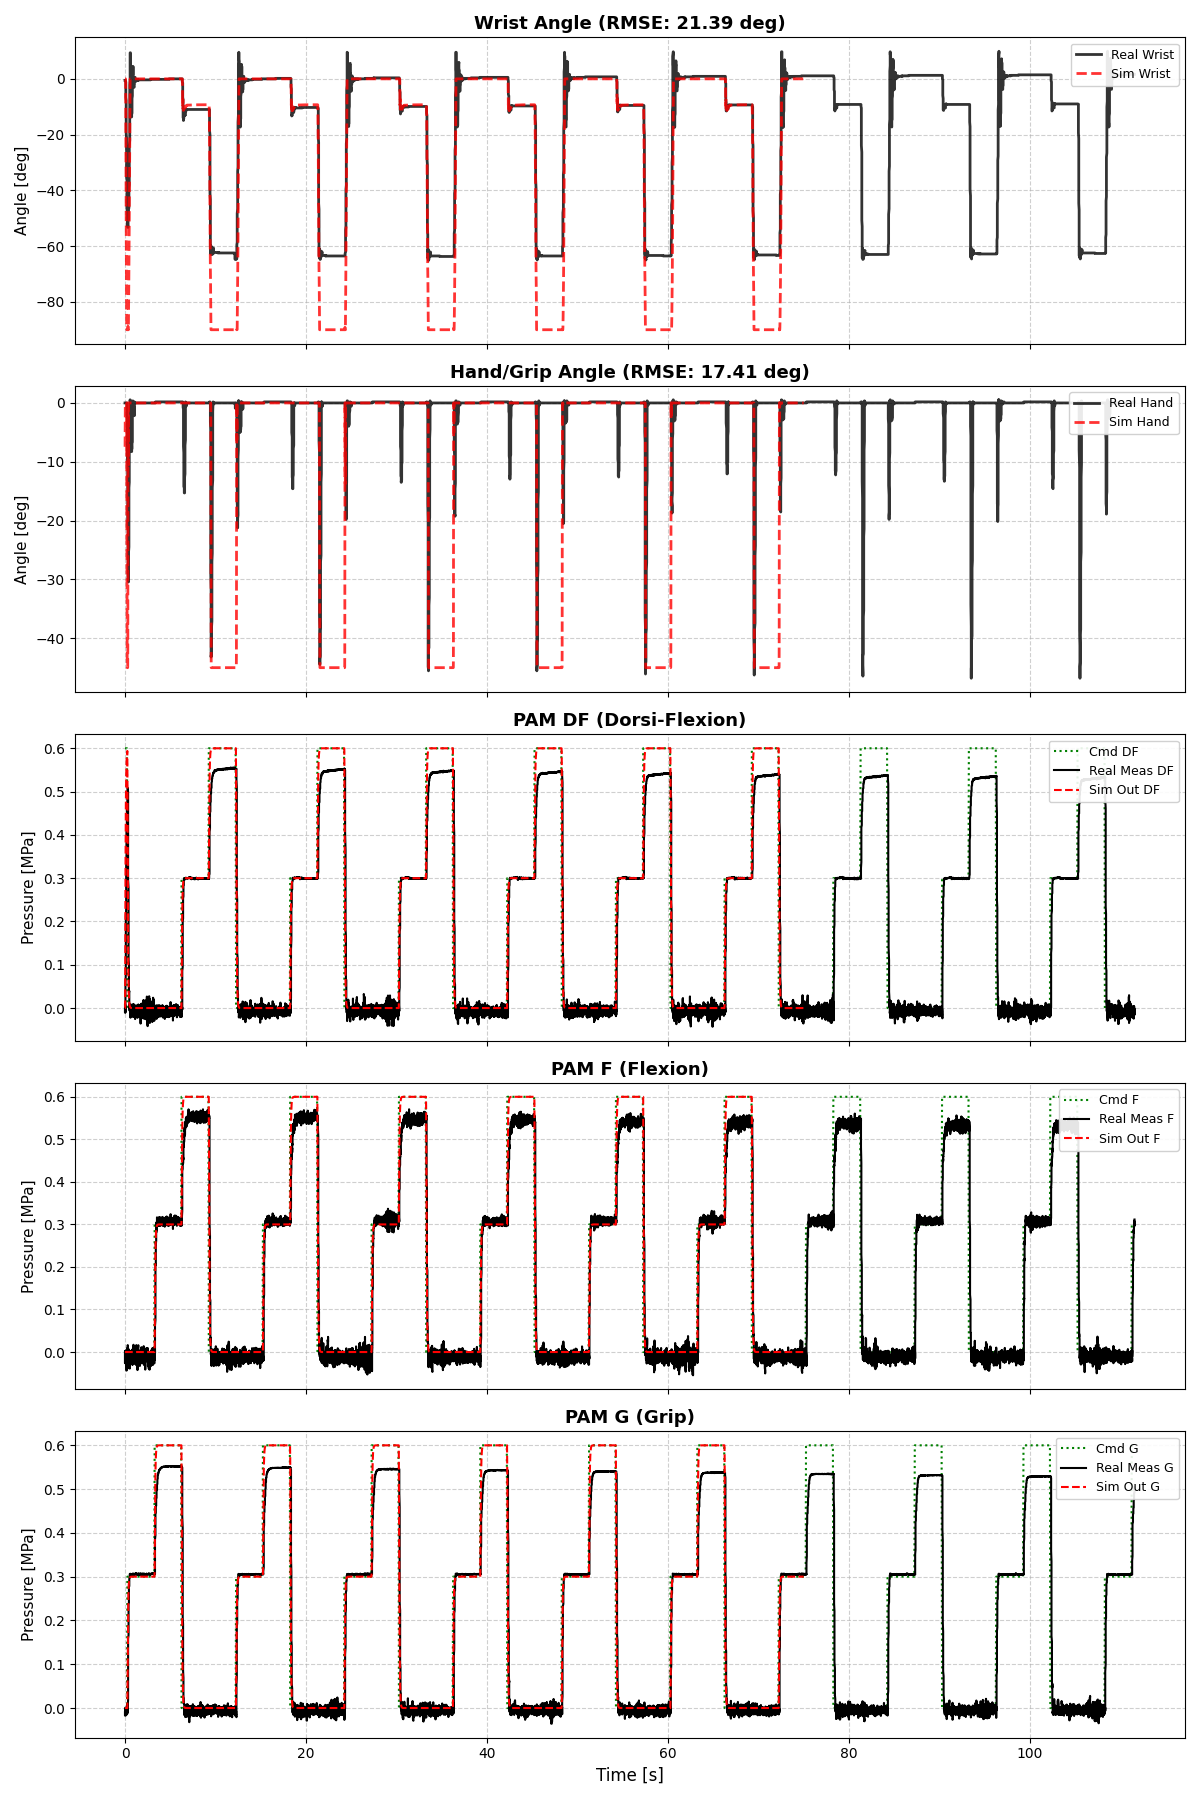
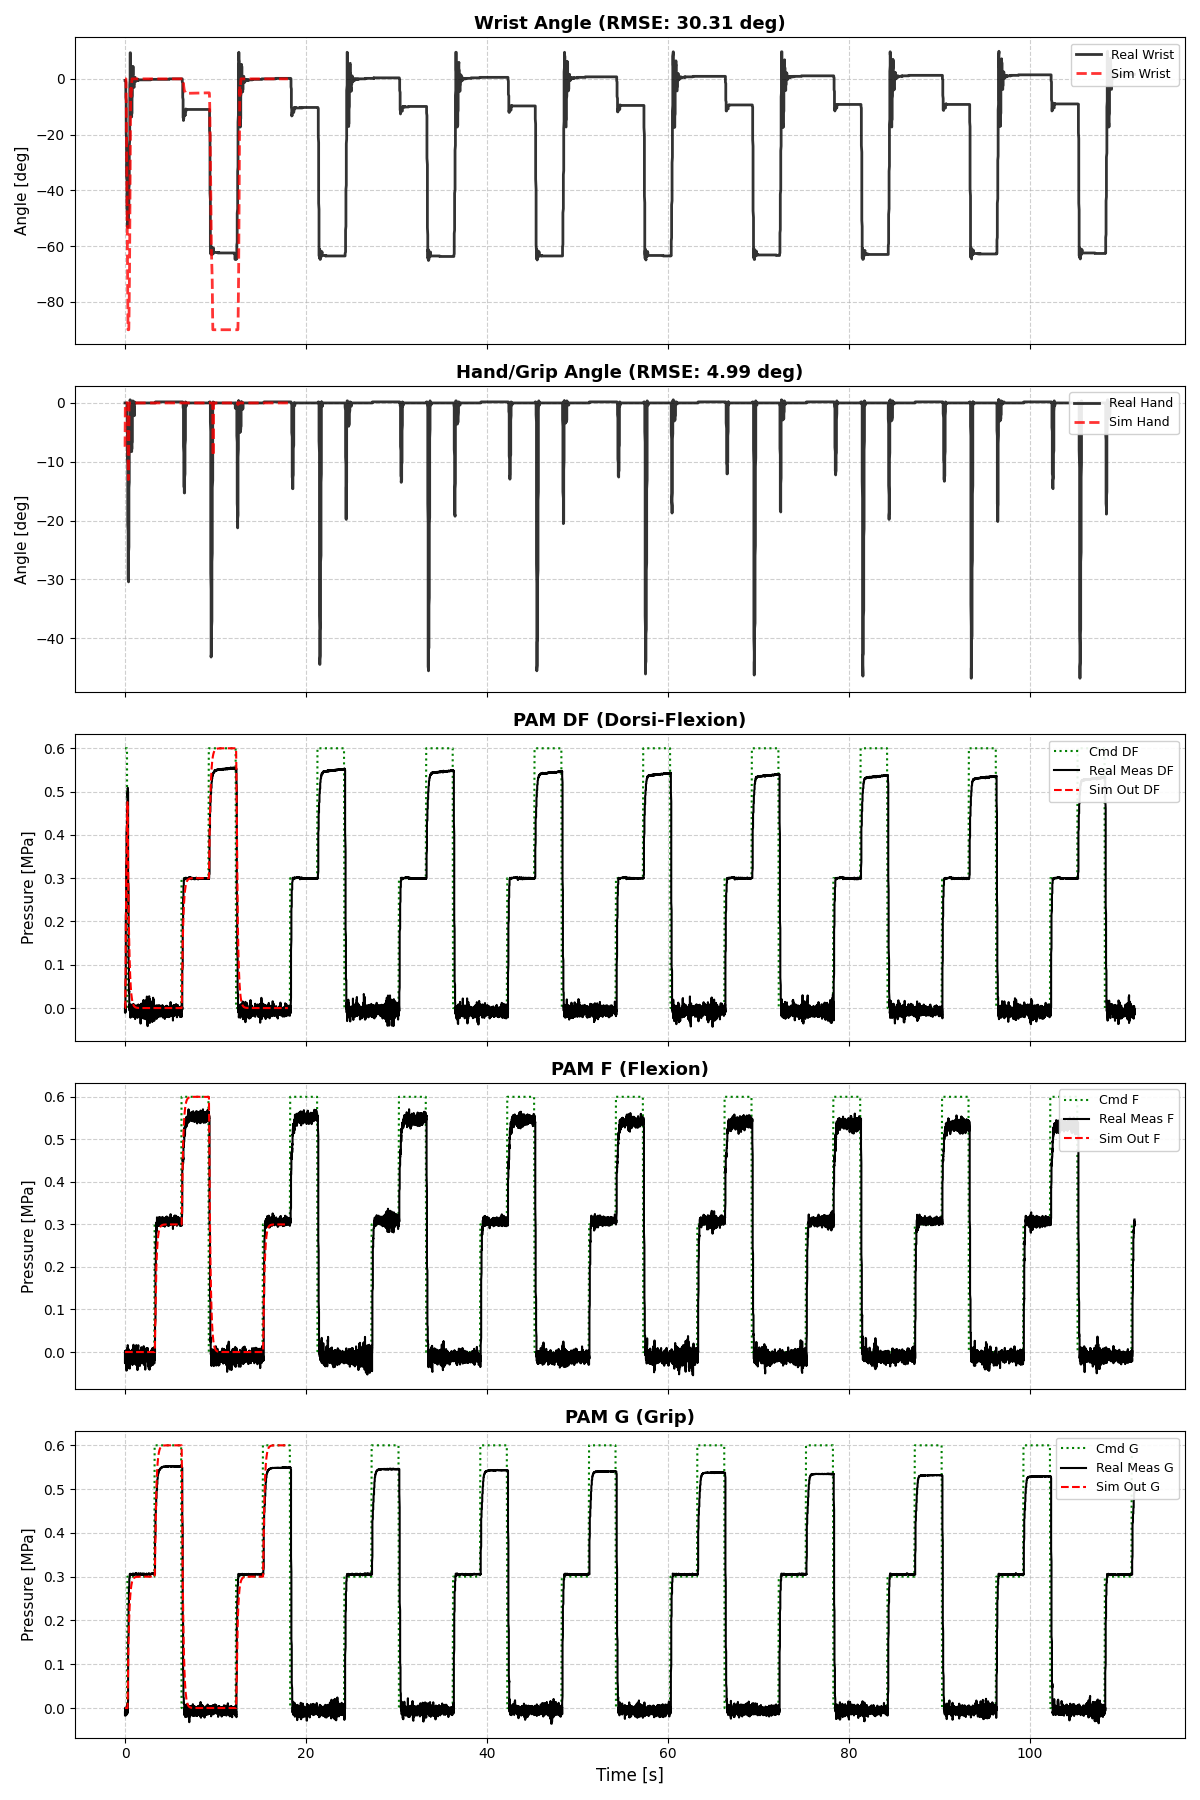
add

diff --git a/source/porcaro_rl/porcaro_rl/tasks/direct/porcaro_rlv1/cfg/assets.py b/source/porcaro_rl/porcaro_rl/tasks/direct/porcaro_rlv1/cfg/assets.py
@@ -32,39 +32,71 @@ def quat_from_euler_zyx(yaw_deg=0.0, pitch_deg=0.0, roll_deg=0.0):
     norm = math.sqrt(w*w + qx*qx + qy*qy + qz*qz)
     return (w/norm, qx/norm, qy/norm, qz/norm)
 
-# --- アセットのパス設定 ---
-# このスクリプトが (リポジトリルート)/source/standalone/environments/porcaro/
-# に置かれることを想定しています。
+# =========================================================================
+# ★ 変更箇所: データパス探索ロジックの強化
+# =========================================================================
+def find_project_root_and_data(start_path: Path, max_depth: int = 6) -> tuple[Path, Path]:
+    """
+    カレントまたはファイルの場所から親ディレクトリを遡り、'data' フォルダを探す。
+    見つからない場合はエラーとする。
+    """
+    current = start_path.resolve()
+    for _ in range(max_depth):
+        # 候補: dataフォルダがあるかチェック
+        candidate_data = current / "data"
+        if candidate_data.exists() and candidate_data.is_dir():
+             # さらにその中にpam_force_map.csvがあるか確認（確実性のため）
+             if (candidate_data / "pam_force_map.csv").exists():
+                 return current, candidate_data
+        
+        # 親へ
+        if current.parent == current: # ルート到達
+            break
+        current = current.parent
+    
+    raise FileNotFoundError(
+        f"Could not find 'data' directory containing 'pam_force_map.csv' by traversing up from {start_path}. "
+        "Please ensure the 'data' folder exists in the project root."
+    )
+
+# パス解決の実行
 try:
-    ASSETS_DIR = (Path(__file__).resolve().parents[3] / "assets")
-    DATA_DIR = (Path(__file__).resolve().parents[3] / "data")
-except (IndexError, NameError):
-    # 対話環境などで __file__ が未定義の場合のフォールバック
-    print("[Warning] __file__ が未定義です。ASSETS_DIR をカレントディレクトリ基準で仮設定します。")
-    ASSETS_DIR = Path.cwd().parents[2] / "assets"
-    DATA_DIR = Path.cwd().parents[2] / "data"
+    # このファイルの場所を基準に探索
+    BASE_DIR = Path(__file__).parent
+    PROJECT_ROOT, DATA_DIR = find_project_root_and_data(BASE_DIR)
+    
+    # Assetsは data と同階層にあると仮定、なければ探索
+    ASSETS_DIR = PROJECT_ROOT / "assets"
+    if not ASSETS_DIR.exists():
+        # assetsも探す場合の簡易ロジック（必要ならdata同様にする）
+        print(f"[Warning] assets dir not found at {ASSETS_DIR}, trying to rely on defaults or manual set.")
+
+except NameError:
+    # __file__ がない対話実行時などはカレントディレクトリ基準
+    PROJECT_ROOT, DATA_DIR = find_project_root_and_data(Path.cwd())
+    ASSETS_DIR = PROJECT_ROOT / "assets"
+
+print(f"[INFO] Asset Configuration:")
+print(f"  - Project Root: {PROJECT_ROOT}")
+print(f"  - Data Dir    : {DATA_DIR}")
+print(f"  - Assets Dir  : {ASSETS_DIR}")
 
 ROBOT_USD  = str(ASSETS_DIR / "porcaro.usd")
 DRUM_USD   = str(ASSETS_DIR / "sneadrum.usd")
+
+# ★ 変更箇所: ファイルが見つからない場合は例外を発生させ、サイレントなフォールバックを阻止する
 FORCE_MAP_CSV_PATH = str(DATA_DIR / "pam_force_map.csv")
-H0_MAP_CSV_PATH    = str(DATA_DIR / "pam_force_0_map.csv")
-
-if not os.path.exists(ROBOT_USD):
-    raise FileNotFoundError(f"Robot USD not found: {ROBOT_USD}")
-if not os.path.exists(DRUM_USD):
-    raise FileNotFoundError(f"Drum USD not found: {DRUM_USD}")
-
 if not os.path.exists(FORCE_MAP_CSV_PATH):
-    print(f"[Warning] Force map CSV not found (setting to None): {FORCE_MAP_CSV_PATH}")
-    FORCE_MAP_CSV = None
-else:
-    FORCE_MAP_CSV = FORCE_MAP_CSV_PATH
+    raise FileNotFoundError(f"[CRITICAL] Force Map CSV NOT found at: {FORCE_MAP_CSV_PATH}")
+FORCE_MAP_CSV = FORCE_MAP_CSV_PATH
 
+H0_MAP_CSV_PATH    = str(DATA_DIR / "pam_force_0_map.csv")
 if not os.path.exists(H0_MAP_CSV_PATH):
-    print(f"[Warning] H0 map CSV not found (setting to None): {H0_MAP_CSV_PATH}")
+    print(f"[Warning] H0 Map CSV NOT found at: {H0_MAP_CSV_PATH}. Using None.")
     H0_MAP_CSV = None
 else:
     H0_MAP_CSV = H0_MAP_CSV_PATH
+# =========================================================================
 
 # --- アセットCFG定義 ---
 

diff --git a/source/porcaro_rl/porcaro_rl/tasks/direct/porcaro_rlv1/actions/torque.py b/source/porcaro_rl/porcaro_rl/tasks/direct/porcaro_rlv1/actions/torque.py
@@ -21,6 +21,7 @@ class TorqueActionController(ActionController):
                  tau: float = 0.09, dead_time: float = 0.03,
                  N: float = 630.0,
                  force_map_csv: str | None = None,
+                 force_scale: float = 1.0,
                  h0_map_csv: str | None = None,
                  use_pressure_dependent_tau: bool = True,
                  geometric_cfg: PamGeometricCfg | None = None):
@@ -33,6 +34,29 @@ class TorqueActionController(ActionController):
                         "G":  float(theta_t_G_deg)}
         self.Pmax = float(Pmax)
         self.N = float(N)
+        self.force_scale = float(force_scale)
+
+        # === 変更箇所: ForceMap読み込みとデバッグ出力 ===
+        print("-" * 60)
+        print(f"[TorqueActionController] Initializing PAM Force Model...")
+        
+        if force_map_csv:
+            try:
+                self.force_map = PamForceMap.from_csv(force_map_csv)
+                print(f"  >>> SUCCESS: Loaded Real Force Map from: {force_map_csv}")
+                print(f"      Range: P=[{self.force_map.P[0]:.2f}, {self.force_map.P[-1]:.2f}] MPa, "
+                      f"h=[{self.force_map.h[0]:.2f}, {self.force_map.h[-1]:.2f}]")
+                print(f"  >>> INFO: Applying Force Scale: {self.force_scale:.2f} (Real/Catalog Ratio)")
+            except Exception as e:
+                print(f"  >>> ERROR: Failed to load Force Map: {e}")
+                raise e # 失敗時は止める
+        else:
+            self.force_map = None
+            print(f"  >>> WARNING: No CSV provided. Using Ideal Quasi-static Model (N={self.N})")
+            print("      This may cause Sim-to-Real mismatch!")
+        
+        print("-" * 60)
+        # ================================================
 
         self.force_map = PamForceMap.from_csv(force_map_csv) if force_map_csv else None
         self.h0_map    = H0Map.from_csv(h0_map_csv) if h0_map_csv else None
@@ -142,13 +166,14 @@ class TorqueActionController(ActionController):
 
         # 4) 力 F
         if self.force_map is not None:
-            F_DF = self.force_map(P_DF, h_DF)
-            F_F  = self.force_map(P_F,  h_F)
-            F_G  = self.force_map(P_G,  h_G)
+            F_DF = self.force_map(P_DF, h_DF) * self.force_scale  # <--- ★ 係数を掛ける
+            F_F  = self.force_map(P_F,  h_F)  * self.force_scale  # <--- ★
+            F_G  = self.force_map(P_G,  h_G)  * self.force_scale  # <--- ★
         else:
-            F_DF = Fpam_quasi_static(P_DF, h_DF, N=self.N, Pmax=self.Pmax)
-            F_F  = Fpam_quasi_static(P_F,  h_F,  N=self.N, Pmax=self.Pmax)
-            F_G  = Fpam_quasi_static(P_G,  h_G,  N=self.N, Pmax=self.Pmax)
+            # 数式モデルの場合も適用しておくと統一性が取れます
+            F_DF = Fpam_quasi_static(P_DF, h_DF, N=self.N, Pmax=self.Pmax) * self.force_scale
+            F_F  = Fpam_quasi_static(P_F,  h_F,  N=self.N, Pmax=self.Pmax) * self.force_scale
+            F_G  = Fpam_quasi_static(P_G,  h_G,  N=self.N, Pmax=self.Pmax) * self.force_scale
 
         # 4.5) 弛み判定
         if self.h0_map is not None:

diff --git a/source/porcaro_rl/porcaro_rl/tasks/direct/porcaro_rlv1/porcaro_rl_env_cfg.py b/source/porcaro_rl/porcaro_rl/tasks/direct/porcaro_rlv1/porcaro_rl_env_cfg.py
@@ -79,7 +79,7 @@ class PorcaroRLEnvCfg(DirectRLEnvCfg):
     # デフォルトは True (有効収縮率を使用) とし、オフセットは 0 (影響なし) で初期化
     pam_geometric_cfg: PamGeometricCfg = PamGeometricCfg(
         enable_slack_compensation=True,
-        wire_slack_offsets=(0.001, 0.005, 0.005), # 後でキャリブレーション値をここに入れます 0.00xmmのワイヤーが正しく貼るまでの長さ
+        wire_slack_offsets=(0.0, 0.005, 0.003), # 後でキャリブレーション値をここに入れます 0.00x mのワイヤーが正しく貼るまでの長さ
         natural_length=0.150
     )
     # --------------------------
@@ -164,7 +164,7 @@ def apply_domain_randomization(cfg: PorcaroRLEnvCfg):
 class PorcaroRLEnvCfg_ModelA(PorcaroRLEnvCfg):
     def __post_init__(self):
         super().__post_init__()
-        self.pam_delay_cfg = PamDelayModelCfg(delay_time=0.02, time_constant=0.05)
+        self.pam_delay_cfg = PamDelayModelCfg(delay_time=0.04, time_constant=0.15)
         self.pam_hysteresis_cfg = None
         self.actuator_net_cfg = None
 

diff --git a/source/porcaro_rl/porcaro_rl/tasks/direct/porcaro_rlv1/porcaro_rl_env.py b/source/porcaro_rl/porcaro_rl/tasks/direct/porcaro_rlv1/porcaro_rl_env.py
@@ -87,6 +87,7 @@ class PorcaroRLEnv(DirectRLEnv):
             dead_time=ctrl_cfg.dead_time,
             N=ctrl_cfg.N,
             force_map_csv=ctrl_cfg.force_map_csv,
+            force_scale=ctrl_cfg.force_scale,
             h0_map_csv=ctrl_cfg.h0_map_csv,
             use_pressure_dependent_tau=ctrl_cfg.use_pressure_dependent_tau,
             geometric_cfg=self.cfg.pam_geometric_cfg,

diff --git a/source/porcaro_rl/porcaro_rl/tasks/direct/porcaro_rlv1/cfg/controller_cfg.py b/source/porcaro_rl/porcaro_rl/tasks/direct/porcaro_rlv1/cfg/controller_cfg.py
@@ -20,5 +20,6 @@ class TorqueControllerCfg:
     dead_time: float = 0.03
     N: float = 630.0 # 簡易式 Fpam_quasi_static 用 (CSVがあれば不要)
     force_map_csv: str | None = FORCE_MAP_CSV
+    force_scale = 1
     h0_map_csv: str | None = H0_MAP_CSV
     use_pressure_dependent_tau: bool = True
